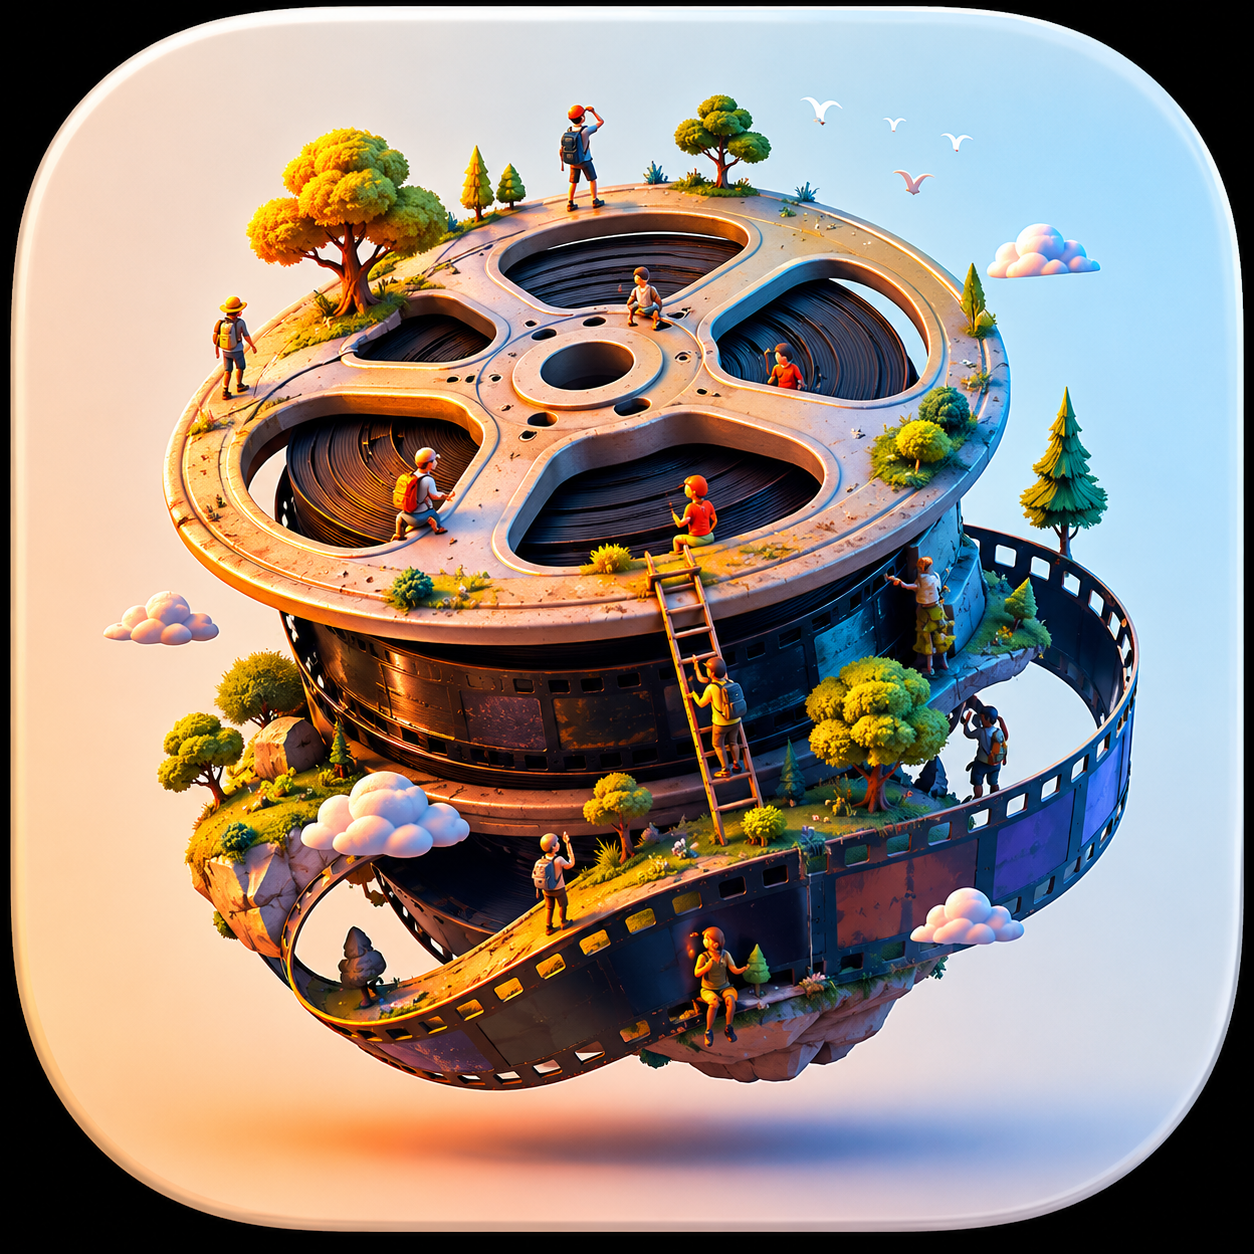
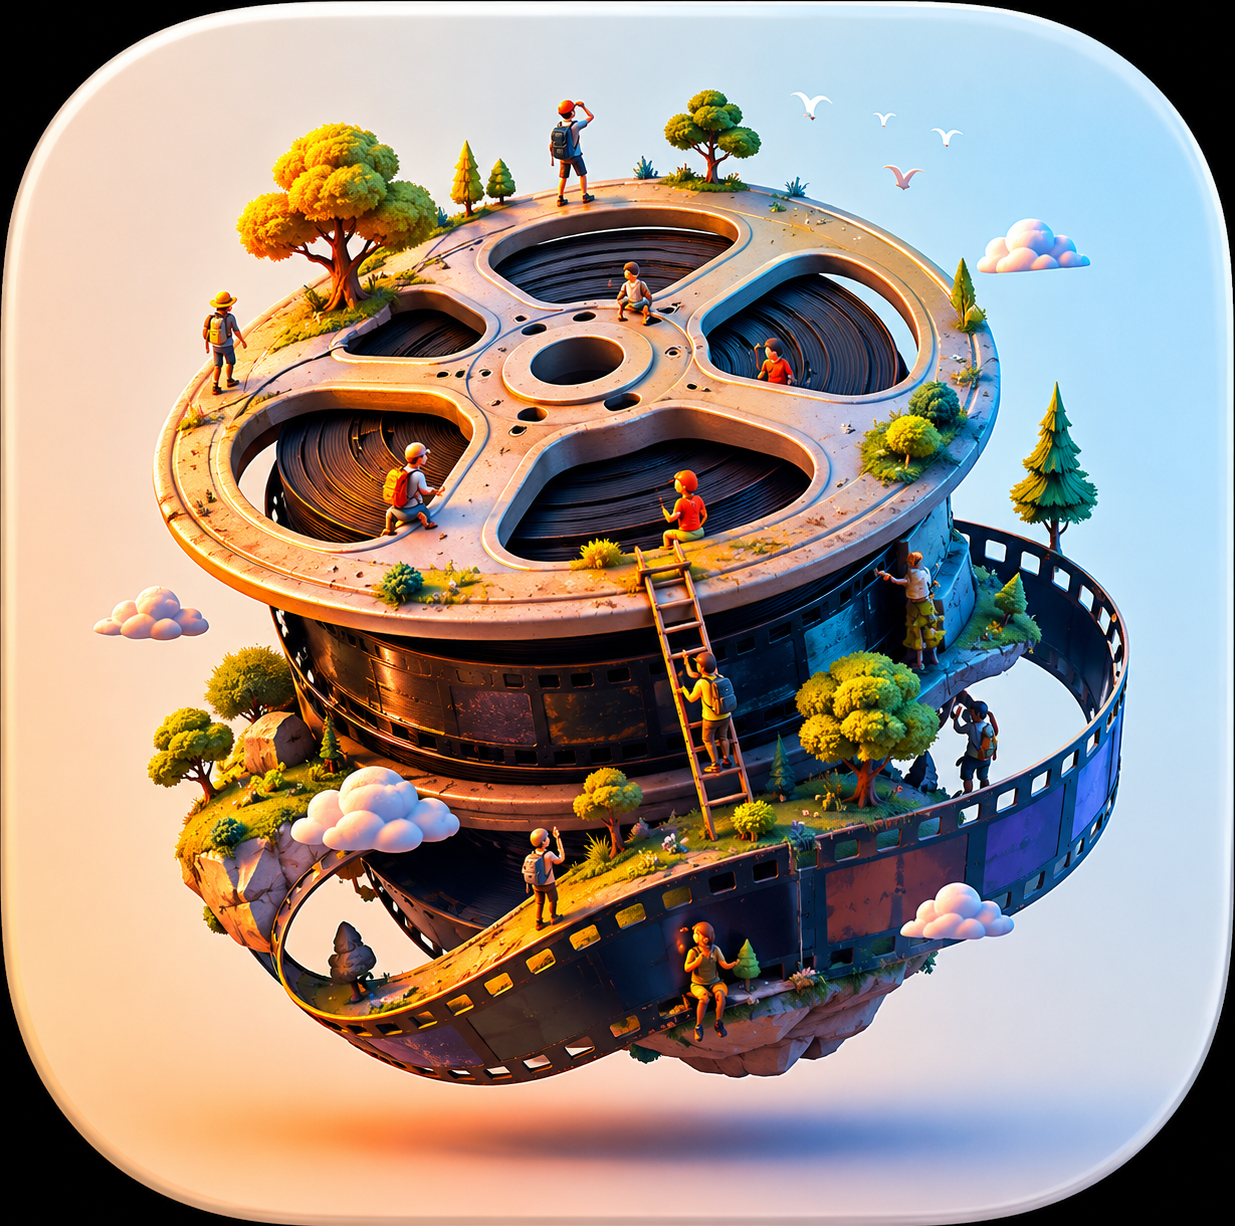
feat: replace click-to-add with explicit Add/Remove buttons in watchlist dialog
Dialog stays open after adding so users can see confirmation and undo
if they picked the wrong title. Each result row shows Add or Remove
based on current watchlist state, with a per-row spinner while mutating.

diff --git a/src/components/watchlist/AddToWatchlistDialog.tsx b/src/components/watchlist/AddToWatchlistDialog.tsx
@@ -1,12 +1,12 @@
 "use client";
 
-import { useState, useEffect, useRef } from "react";
+import { useState, useEffect, useRef, useMemo } from "react";
 import Image from "next/image";
-import { Plus, Search } from "lucide-react";
+import { Plus, Search, Loader2 } from "lucide-react";
 import { Dialog, DialogContent, DialogHeader, DialogTitle, DialogTrigger } from "@/components/ui/dialog";
 import { tmdbImage } from "@/lib/tmdb";
 import { useTmdbSearch } from "@/hooks/useTmdbSearch";
-import { useAddToWatchlist } from "@/hooks/useWatchlist";
+import { useWatchlist, useAddToWatchlist, useRemoveFromWatchlist } from "@/hooks/useWatchlist";
 import type { TmdbSearchResult } from "@/types";
 
 function preventInputZoom() {
@@ -24,12 +24,35 @@ export default function AddToWatchlistDialog() {
   const [query, setQuery] = useState("");
   const [viewerLabel, setViewerLabel] = useState<"mine" | "ours">("mine");
   const [displayCount, setDisplayCount] = useState(10);
+  const [addedThisSession, setAddedThisSession] = useState<Map<number, number>>(new Map());
+  const [pendingTmdbId, setPendingTmdbId] = useState<number | null>(null);
   const inputRef = useRef<HTMLInputElement>(null);
   const { results, isLoading, isLoadingMore, hasMore, loadMore } = useTmdbSearch(query, "both");
-  const { mutate: addItem, isPending } = useAddToWatchlist();
+  const { mutate: addItem } = useAddToWatchlist();
+  const { mutate: removeItem } = useRemoveFromWatchlist();
+  const { data: watchlistItems = [] } = useWatchlist();
   const visibleResults = results.slice(0, displayCount);
 
+  // tmdbId → watchlistId: existing items + anything added this session
+  const inWatchlist = useMemo(() => {
+    const map = new Map<number, number>();
+    for (const item of watchlistItems) {
+      map.set(item.tmdbId, item.id);
+    }
+    for (const [tmdbId, id] of addedThisSession) {
+      map.set(tmdbId, id);
+    }
+    return map;
+  }, [watchlistItems, addedThisSession]);
+
   useEffect(() => { setDisplayCount(10); }, [query]);
+
+  useEffect(() => {
+    if (!open) {
+      setAddedThisSession(new Map());
+      setPendingTmdbId(null);
+    }
+  }, [open]);
 
   // Focus input after dialog animation completes to avoid iOS transform-zoom bug
   useEffect(() => {
@@ -53,18 +76,33 @@ export default function AddToWatchlistDialog() {
     };
   }, [open]);
 
-  function handleSelect(result: TmdbSearchResult) {
+  function handleAdd(result: TmdbSearchResult) {
     const type = (result.media_type ?? "movie") as "movie" | "tv";
+    setPendingTmdbId(result.id);
     addItem(
       { tmdbId: result.id, type, viewerLabel },
       {
-        onSuccess: () => {
-          setOpen(false);
-          setQuery("");
-          setViewerLabel("mine");
+        onSuccess: (item) => {
+          setAddedThisSession((prev) => new Map(prev).set(result.id, item.id));
+          setPendingTmdbId(null);
         },
+        onError: () => setPendingTmdbId(null),
       }
     );
+  }
+
+  function handleRemove(tmdbId: number, watchlistId: number) {
+    setPendingTmdbId(tmdbId);
+    // Optimistically remove from session tracking to match RQ cache optimistic update
+    setAddedThisSession((prev) => {
+      const next = new Map(prev);
+      next.delete(tmdbId);
+      return next;
+    });
+    removeItem(watchlistId, {
+      onSuccess: () => setPendingTmdbId(null),
+      onError: () => setPendingTmdbId(null),
+    });
   }
 
   return (
@@ -139,12 +177,14 @@ export default function AddToWatchlistDialog() {
           {visibleResults.map((result) => {
             const title = result.title ?? result.name ?? "";
             const year = (result.release_date ?? result.first_air_date ?? "").slice(0, 4);
+            const watchlistId = inWatchlist.get(result.id);
+            const isAdded = watchlistId !== undefined;
+            const isMutating = pendingTmdbId === result.id;
+
             return (
-              <button
+              <div
                 key={`${result.media_type}-${result.id}`}
-                onClick={() => handleSelect(result)}
-                disabled={isPending}
-                className="w-full flex items-center gap-3 rounded-lg px-3 py-2 text-left hover:bg-white/6 transition-colors"
+                className="w-full flex items-center gap-3 rounded-lg px-3 py-2"
               >
                 <div className="relative h-12 w-8 flex-shrink-0 rounded overflow-hidden bg-white/8">
                   {result.poster_path ? (
@@ -168,7 +208,27 @@ export default function AddToWatchlistDialog() {
                     </span>
                   </div>
                 </div>
-              </button>
+                <button
+                  type="button"
+                  disabled={isMutating}
+                  onClick={() =>
+                    isAdded ? handleRemove(result.id, watchlistId) : handleAdd(result)
+                  }
+                  className={`flex-shrink-0 min-w-[56px] flex items-center justify-center gap-1 text-xs font-medium px-2.5 py-1 rounded-md border transition-colors disabled:opacity-50 ${
+                    isAdded
+                      ? "border-white/15 text-white/50 hover:text-red-400 hover:border-red-400/30"
+                      : "border-white/20 text-white/70 hover:text-white hover:border-white/35"
+                  }`}
+                >
+                  {isMutating ? (
+                    <Loader2 className="h-3 w-3 animate-spin" />
+                  ) : isAdded ? (
+                    "Remove"
+                  ) : (
+                    "Add"
+                  )}
+                </button>
+              </div>
             );
           })}
           {isLoadingMore && (

diff --git a/src/components/tv/ShowCard.tsx b/src/components/tv/ShowCard.tsx
@@ -17,11 +17,10 @@ export default function ShowCard({ show, onSelect, priority = false }: ShowCardP
   const year = show.releaseDate ? new Date(show.releaseDate).getFullYear() : null;
   const { mutate: updateMovie } = useUpdateMovie();
 
-  const totalSeasons = show.tvSeasons?.length ?? 0;
-  const completedSeasons = show.tvSeasons?.filter(
-    (s) => s.episodeCount !== null && s.watchedEpisodes >= (s.episodeCount ?? 0)
-  ).length ?? 0;
-  const hasSeasons = totalSeasons > 0;
+  const totalEpisodes = show.tvSeasons?.reduce((sum, s) => sum + (s.episodeCount ?? 0), 0) ?? 0;
+  const watchedEpisodeCount = show.tvSeasons?.reduce((sum, s) => sum + s.watchedEpisodes, 0) ?? 0;
+  const watchPct = totalEpisodes > 0 ? Math.round((watchedEpisodeCount / totalEpisodes) * 100) : 0;
+  const hasSeasons = (show.tvSeasons?.length ?? 0) > 0;
 
   function toggleFavorite(e: React.MouseEvent) {
     e.stopPropagation();
@@ -93,9 +92,7 @@ export default function ShowCard({ show, onSelect, priority = false }: ShowCardP
         <div className="absolute bottom-2 left-2 right-2 opacity-100 group-hover:opacity-0 transition-opacity duration-200">
           <div className="flex items-center gap-1 rounded-md bg-black/70 backdrop-blur-sm px-1.5 py-0.5 w-fit max-w-full">
             <span className="text-[10px] font-medium text-white/70 truncate">
-              {completedSeasons === totalSeasons
-                ? `${totalSeasons} season${totalSeasons !== 1 ? "s" : ""}`
-                : `S${show.tvSeasons!.map((s) => s.seasonNumber).join(", S")}`}
+              {watchPct}% watched
             </span>
           </div>
         </div>